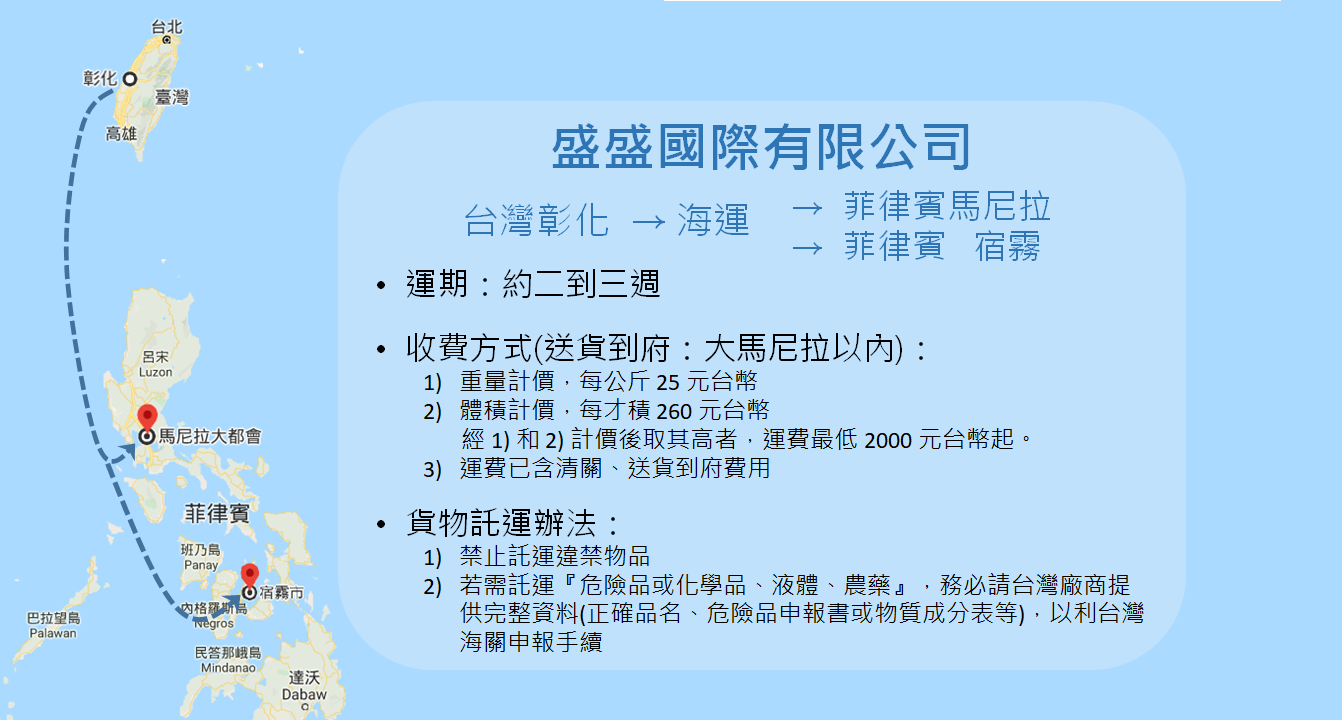
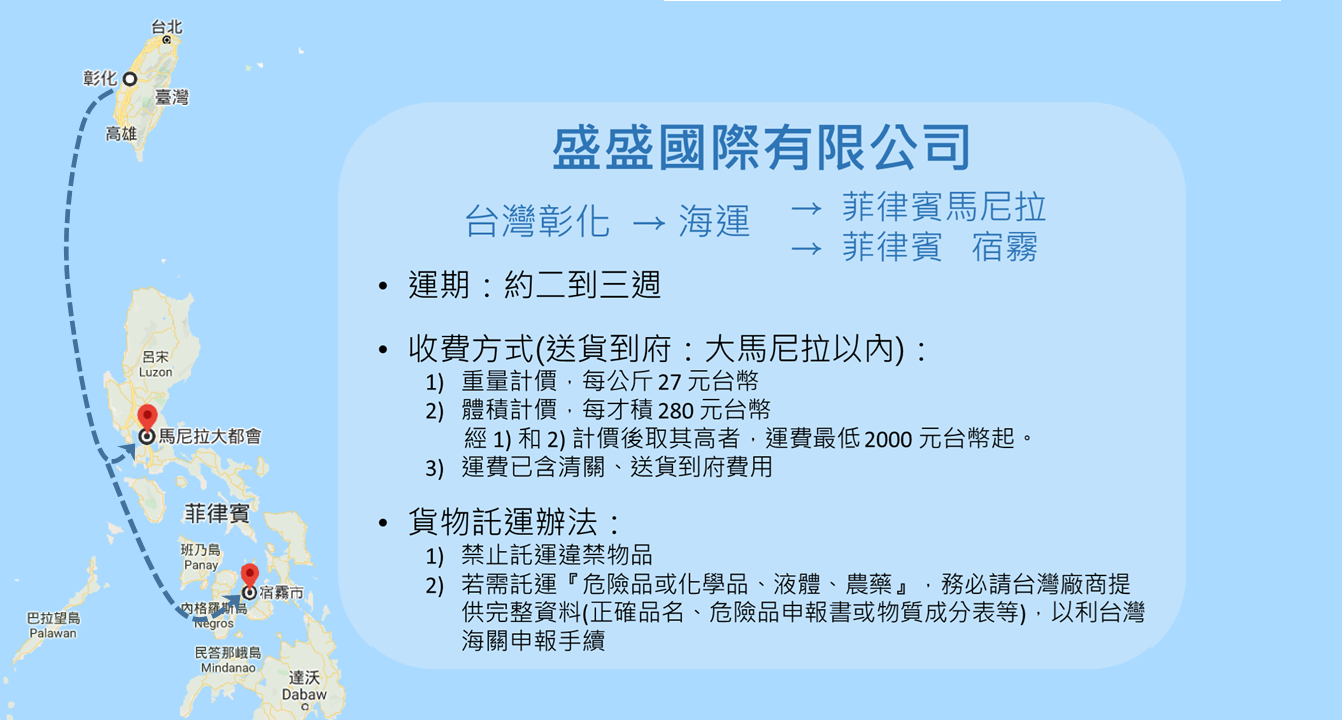
feed

diff --git a/calculate_fee_sea.html b/calculate_fee_sea.html
@@ -635,7 +635,7 @@
 
                 <ul>
                     <li>重量計價</li>
-                    <li>每公斤 台幣25元</li>
+                    <li>每公斤 台幣27元</li>
                 </ul>
 
             </div>
@@ -644,7 +644,7 @@
 
                 <ul>
                     <li>體積計價</li>
-                    <li>每才積 台幣260元</li>
+                    <li>每才積 台幣280元</li>
                 </ul>
 
             </div>
@@ -653,23 +653,7 @@
 
         <div class="fee_table C" style="display: none;">
 
-            <div class="upper_left_table">
-
-                <ul>
-                    <li>重量計價</li>
-                    <li>每公斤 台幣35元</li>
-                </ul>
-
-            </div>
-
-            <div class="upper_right_table">
-
-                <ul>
-                    <li>體積計價</li>
-                    <li>每才積 台幣360元</li>
-                </ul>
-
-            </div>
+            <h4>請來電洽詢運費金額</h4>
 
         </div>
 
@@ -930,9 +914,9 @@
                         volume = volume1/100.00 * volume2/100.00 * volume3/100.00 * 35.3;
 
                         if (volume < 300) {
-                            fee = volume * 260;
+                            fee = volume * 280;
                         } else {
-                            fee = volume * 260;
+                            fee = volume * 280;
                         }
 
                         if (fee < 2000) {
@@ -945,10 +929,10 @@
                 else {
                     if (isNaN(volume1) || isNaN(volume2) || isNaN(volume3)) {
                         if (weight < 3000) {
-                            fee = weight * 25;
+                            fee = weight * 27;
                         }
                         else {
-                            fee = weight * 25;
+                            fee = weight * 27;
                         }
 
                         if (fee < 2000) {
@@ -963,15 +947,15 @@
                         var fee2 = 0.00;
 
                         if (volume < 300) {
-                            fee1 = volume * 260;
+                            fee1 = volume * 280;
                         } else {
-                            fee1 = volume * 260;
+                            fee1 = volume * 280;
                         }
 
                         if (weight < 3000) {
-                            fee2 = weight * 25;
+                            fee2 = weight * 27;
                         } else {
-                            fee2 = weight * 25;
+                            fee2 = weight * 27;
                         }
 
                         if (fee1 > fee2) {
@@ -992,75 +976,7 @@
                 break;
 
             case "C":
-
-                if (isNaN(weight)) {
-
-                    if (isNaN(volume1) || isNaN(volume2) || isNaN(volume3)) {
-                        document.getElementById("cal_result").innerHTML = "<span style='color: red;'>至少輸入一個數字到重量或長寬高欄位!</span>";
-                    }
-                    else {
-                        volume = volume1/100.00 * volume2/100.00 * volume3/100.00 * 35.3;
-
-                        if (volume < 300) {
-                            fee = volume * 360;
-                        } else {
-                            fee = volume * 360;
-                        }
-
-                        if (fee < 2000) {
-                            fee = 2000;
-                        }
-
-                        document.getElementById("cal_result").innerHTML = "運費金額粗估為 台幣" + FormatNumber(fee) + "元 <span style='color: red;'> (實際收費金額以現場丈量為主)</span>";
-                    }
-                }
-                else {
-                    if (isNaN(volume1) || isNaN(volume2) || isNaN(volume3)) {
-                        if (weight < 3000) {
-                            fee = weight * 35;
-                        }
-                        else {
-                            fee = weight * 35;
-                        }
-
-                        if (fee < 2000) {
-                            fee = 2000;
-                        }
-
-                        document.getElementById("cal_result").innerHTML = "運費金額粗估為 台幣" + FormatNumber(fee) + "元 <span style='color: red;'> (實際收費金額以現場丈量為主)</span>";
-                    }
-                    else {
-                        volume = volume1/100.00 * volume2/100.00 * volume3/100.00 * 35.3;
-                        var fee1 = 0.00;
-                        var fee2 = 0.00;
-
-                        if (volume < 300) {
-                            fee1 = volume * 360;
-                        } else {
-                            fee1 = volume * 360;
-                        }
-
-                        if (weight < 3000) {
-                            fee2 = weight * 35;
-                        } else {
-                            fee2 = weight * 35;
-                        }
-
-                        if (fee1 > fee2) {
-                            fee = fee1;
-                        } else {
-                            fee = fee2;
-                        }
-
-                        if (fee < 2000) {
-                            fee = 2000;
-                        }
-
-                        document.getElementById("cal_result").innerHTML = "運費金額粗估為 台幣" + FormatNumber(fee) + "元 <span style='color: red;'> (實際收費金額以現場丈量為主)</span>";
-                    }
-
-                }
-
+                document.getElementById("cal_result").innerHTML = "<span style='color: red;'>請來電洽詢運費金額</span>";
                 break;
 
             case "D":

diff --git a/index.html b/index.html
@@ -1003,75 +1003,7 @@
                 break;
 
             case "C":
-
-                if (isNaN(weight)) {
-
-                    if (isNaN(volume1) || isNaN(volume2) || isNaN(volume3)) {
-                        document.getElementById("cal_result").innerHTML = "<span style='color: red;'>至少輸入一個數字到重量或長寬高欄位!</span>";
-                    }
-                    else {
-                        volume = volume1/100.00 * volume2/100.00 * volume3/100.00 * 35.3;
-
-                        if (volume < 300) {
-                            fee = volume * 360;
-                        } else {
-                            fee = volume * 360;
-                        }
-
-                        if (fee < 2000) {
-                            fee = 2000;
-                        }
-
-                        document.getElementById("cal_result").innerHTML = "運費金額粗估為 台幣" + FormatNumber(fee) + "元 <span style='color: red;'> (實際收費金額以現場丈量為主)</span>";
-                    }
-                }
-                else {
-                    if (isNaN(volume1) || isNaN(volume2) || isNaN(volume3)) {
-                        if (weight < 3000) {
-                            fee = weight * 35;
-                        }
-                        else {
-                            fee = weight * 35;
-                        }
-
-                        if (fee < 2000) {
-                            fee = 2000;
-                        }
-
-                        document.getElementById("cal_result").innerHTML = "運費金額粗估為 台幣" + FormatNumber(fee) + "元 <span style='color: red;'> (實際收費金額以現場丈量為主)</span>";
-                    }
-                    else {
-                        volume = volume1/100.00 * volume2/100.00 * volume3/100.00 * 35.3;
-                        var fee1 = 0.00;
-                        var fee2 = 0.00;
-
-                        if (volume < 300) {
-                            fee1 = volume * 360;
-                        } else {
-                            fee1 = volume * 360;
-                        }
-
-                        if (weight < 3000) {
-                            fee2 = weight * 35;
-                        } else {
-                            fee2 = weight * 35;
-                        }
-
-                        if (fee1 > fee2) {
-                            fee = fee1;
-                        } else {
-                            fee = fee2;
-                        }
-
-                        if (fee < 2000) {
-                            fee = 2000;
-                        }
-
-                        document.getElementById("cal_result").innerHTML = "運費金額粗估為 台幣" + FormatNumber(fee) + "元 <span style='color: red;'> (實際收費金額以現場丈量為主)</span>";
-                    }
-
-                }
-
+                document.getElementById("cal_result").innerHTML = "<span style='color: red;'>請來電洽詢運費金額</span>";
                 break;
 
             case "D":
